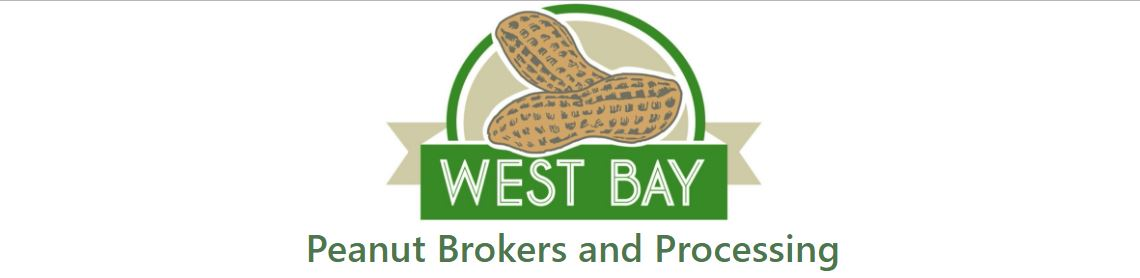
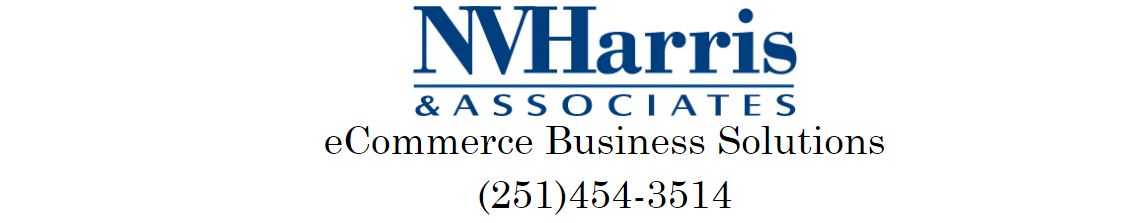
email

Changed region(s): [[0.0, 0.0, 1.0, 0.9955]]

diff --git a/NVHarris/Helpers/MailHelper.cs b/NVHarris/Helpers/MailHelper.cs
@@ -22,20 +22,16 @@ namespace NVHarris
         // STARTTLS to encrypt the connection.
         const int PORT = 587;
 
-        const String SMTP_USERNAME = "AKIAJW77CBQ6CSW4IYXQ";  // Replace with your SMTP username. 
-        const String SMTP_PASSWORD = "Ao5aikg7Of6Kkspq+vNkhJr5LO6cnBRSxRHoQV2d2Lxf";  // Replace with your SMTP password.
-
         private SmtpClient client = new SmtpClient(HOST, PORT);
 
 
         public bool SendContactEmail(Contact contact)
         {
-            //string toAddress = "japarker@gulftel.com";
-            string toAddress = "stumay111@gmail.com";
+            string toAddress = "vince@nvharris.com";
             string BCCAddress = "stumay111@gmail.com";
             client.Credentials = GetCredentials();
             client.EnableSsl = true;
-            MailMessage mail = new MailMessage("noreply@westbaypeanuts.com", toAddress);
+            MailMessage mail = new MailMessage("noreply@nvharris.com", toAddress);
             mail.CC.Add(new MailAddress(contact.Email));
             mail.Bcc.Add(new MailAddress(BCCAddress));
             mail.Subject = "Contact from Website";
@@ -77,9 +73,9 @@ namespace NVHarris
 
         public string BuildContactBody(Contact contact)
         {
-            string fileURL = "http://www.westbaypeanuts.com/images/EmailBanner.jpg";
+            string fileURL = "http://nvharris.com/images/EmailBanner.jpg";
             string htmlBody = String.Format(@"<img src=""{0}"" />", fileURL);
-            htmlBody += "<br/><h1>Thank you for contacting West Bay Peanuts<h1/>";
+            htmlBody += "<br/><h1>Thank you for contacting NVHarris and Associates<h1/>";
             htmlBody += "<br/>";
             htmlBody += "<h4>" + contact.ContactName + " requested information:<h4/>";
             htmlBody += "<pre><span style='font-family:Arial;font-size: 12pt;'>";

diff --git a/NVHarris/Controllers/HomeController.cs b/NVHarris/Controllers/HomeController.cs
@@ -24,9 +24,20 @@ namespace NVHarris.Controllers
 
         public ActionResult Contact()
         {
-            ViewBag.Message = "Your contact page.";
+            Contact contact = new Contact();
+            contact.ContactDate = DateTime.Now;
+            return View("Contact",contact);
+        }
 
-            return View();
+        public ActionResult SaveContact(Contact contact)
+        {
+            contact.ContactID = new ModelToSQL<Contact>().WriteInsertSQL("Contact", contact, "ContactID");
+            MailHelper mh = new MailHelper();
+            if (mh.SendContactEmail(contact))
+                ViewBag.SentMessage = "Your Message has been sent and we have emailed you a copy";
+            else
+                ViewBag.SentMessage = "Sending failed. Please contact us at 251-454-3514";
+            return View("Contact", contact);
         }
 
         public ActionResult Portfolio()

diff --git a/NVHarris/Helpers/CommonProcs.cs b/NVHarris/Helpers/CommonProcs.cs
@@ -18,7 +18,7 @@ namespace NVHarris.Helpers
     public static class CommonProcs
     {
         //public static string WCompanyConnStr = "Data Source=52.41.99.172;Initial Catalog=NVHarris;Persist Security Info=True;User ID=sa;Password=Sh@dow111";
-        public static string WCompanyConnStr = ConfigurationManager.ConnectionStrings["NVHarrisDev"].ConnectionString;
+        public static string WCompanyConnStr = ConfigurationManager.ConnectionStrings["NVHarris"].ConnectionString;
         public static string FormatCurrency(decimal amount)
         {
             return string.Format("{0:c}", amount);
